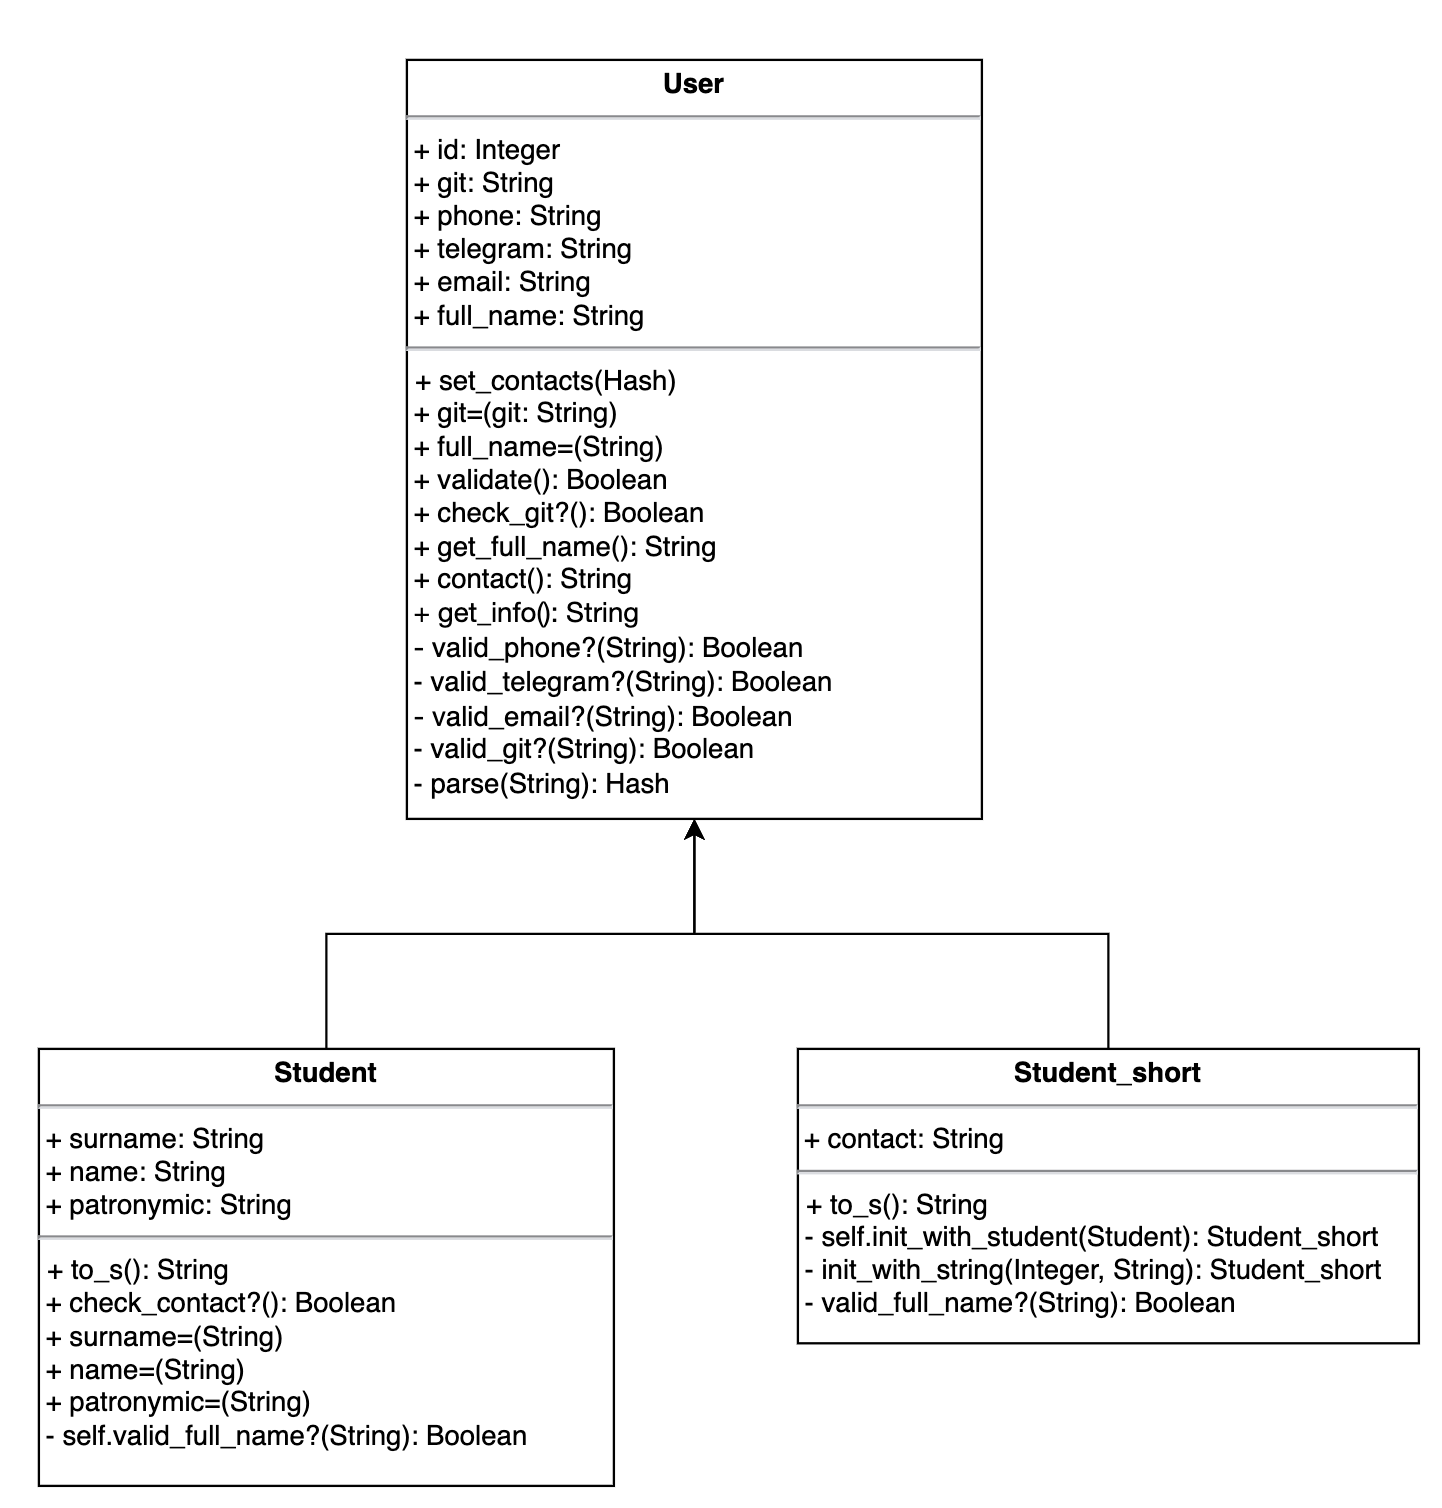
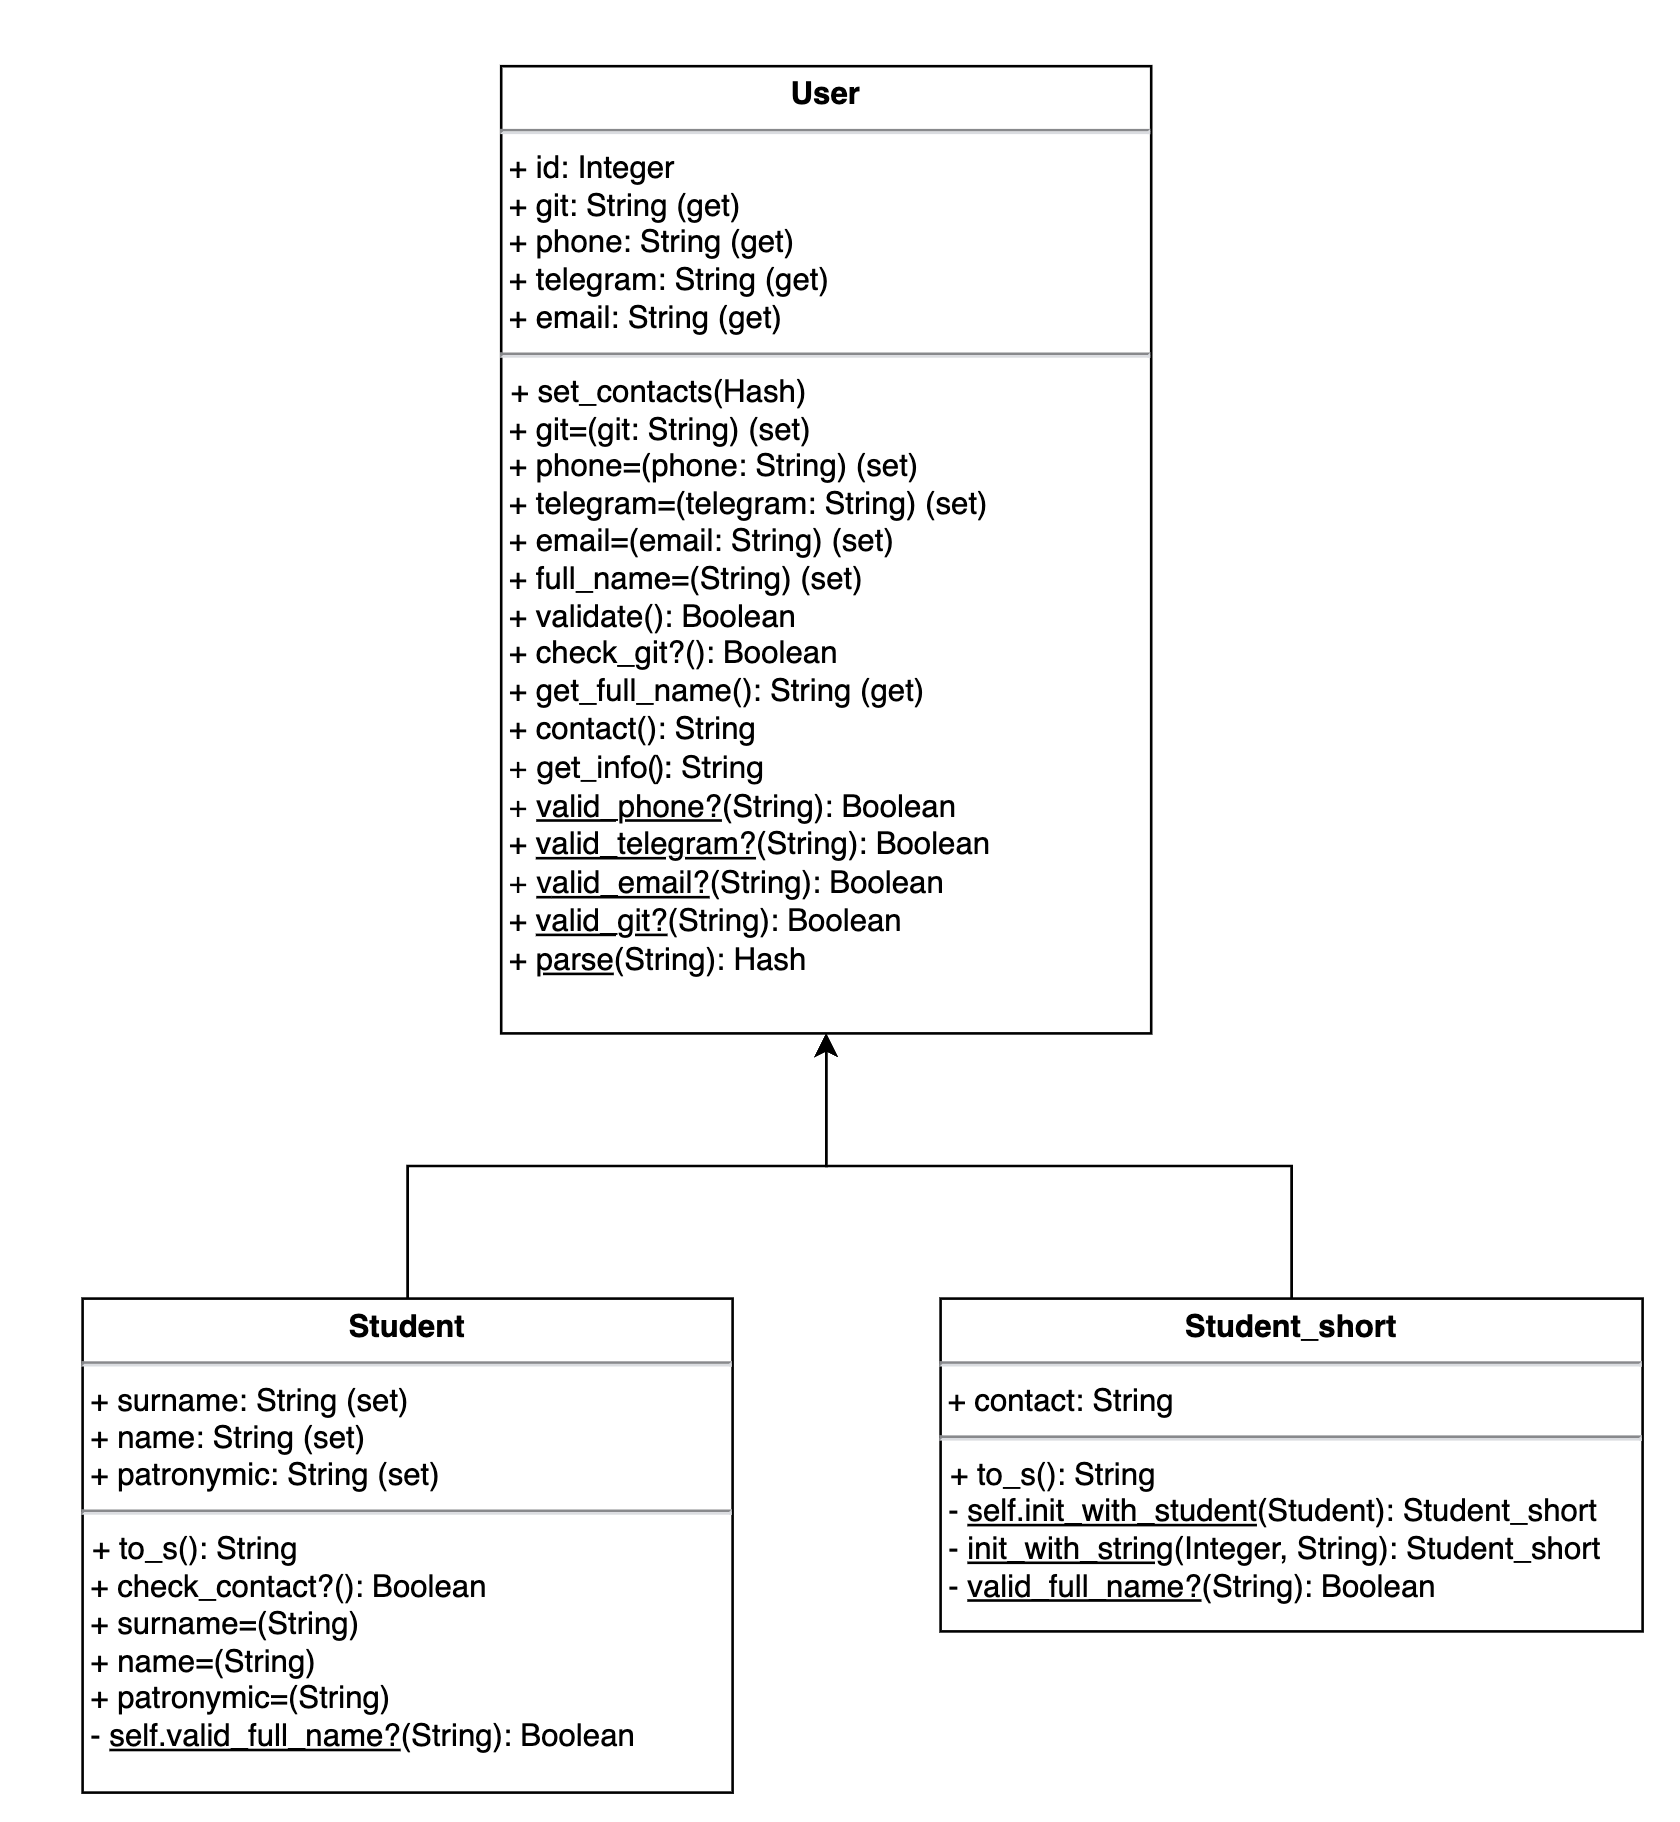
LR2: Hotfix

diff --git a/Student Authorization System/user.rb b/Student Authorization System/user.rb
@@ -1,6 +1,6 @@
 class User
-  attr_accessor :id, :phone, :telegram, :email
-  attr_reader :full_name, :git
+  attr_accessor :id
+  attr_reader :git, :phone, :telegram, :email
 
   def initialize(params = {})
     @id = params[:id]
@@ -22,6 +22,30 @@ class User
       raise ArgumentError, "Invalid git format"
     end
     @git = git
+  end
+
+  # Сеттер для телефона
+  def phone=(phone)
+    if (!self.class.valid_phone?(phone))
+      raise ArgumentError, "Invalid phone format"
+    end
+    @phone = phone
+  end
+
+  # Сеттер для телеграма
+  def telegram=(telegram)
+    if (!self.class.valid_telegram?(telegram))
+      raise ArgumentError, "Invalid telegram format"
+    end
+    @telegram = telegram
+  end
+
+  # Сеттер для почты
+  def email=(email)
+    if (!self.class.valid_email?(email))
+      raise ArgumentError, "Invalid email format"
+    end
+    @email = email
   end
 
   # Сеттер для ФИО
@@ -63,7 +87,7 @@ class User
     elsif (!self.email.nil?)
       "Email: #{self.email}"
     else
-      "Contacts are missing!"
+      nil
     end
   end
 
